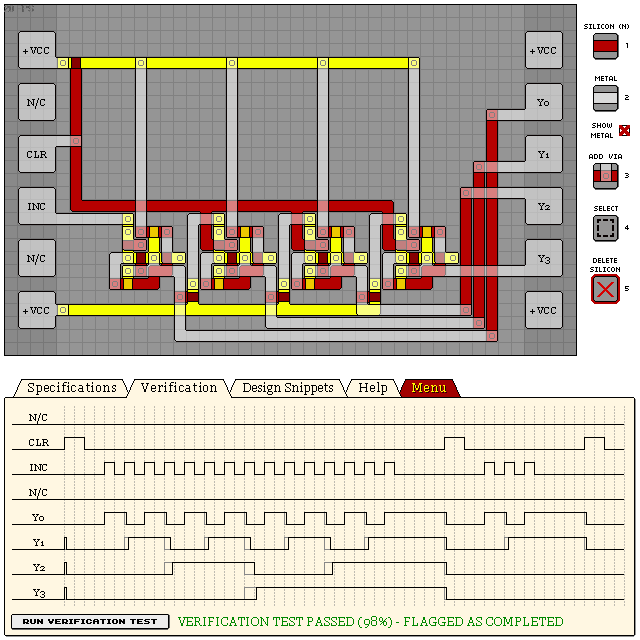
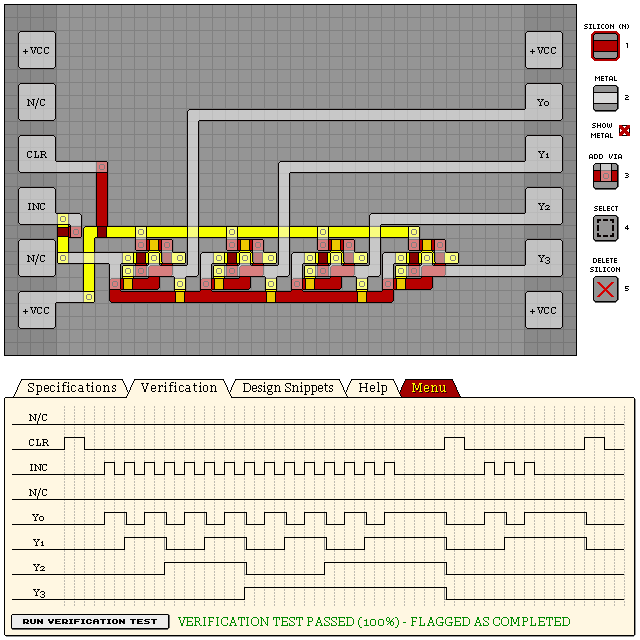
13 KC84C - 100% 293
significant optimization in both performance and score

diff --git a/levels/13 KC84C 4-BIT COUNTER WITH CLEAR.md b/levels/13 KC84C 4-BIT COUNTER WITH CLEAR.md
@@ -1,22 +1,22 @@
 # KC84C - 4-BIT COUNTER WITH CLEAR
 
-- Verification: Passed (98%)
-- Design Score: 466
+- Verification: Passed (100%)
+- Design Score: 293
 
 ```
[12 lines of base64/hex data omitted]
-sWc7+9s+61mYjX05RfRuiui9FJ0fPSAi/QFOLss1
[9 lines of base64/hex data omitted]
 ```
 
 ![13 KC84C 4-BIT COUNTER WITH CLEAR](./assets/13.png)
+
+## See Also
+
+[T Latches](/snippets/t-latch.md)
